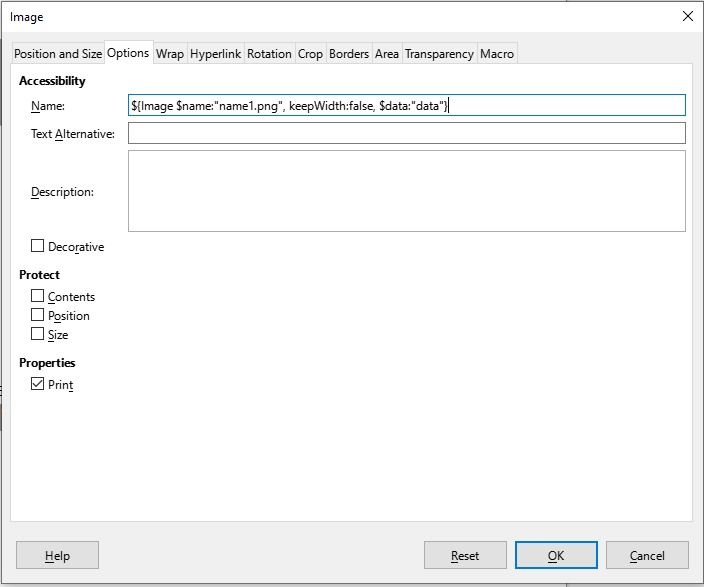
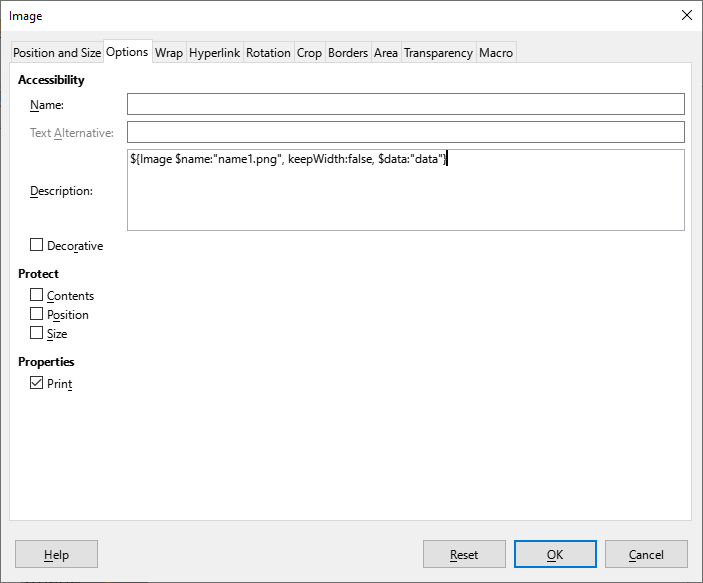
documentation. adjusted pom for missing profile

diff --git a/doc/web/guide.html b/doc/web/guide.html
@@ -63,6 +63,9 @@
         to generate the concrete document. This is a simplified overview that Underdocx does:
         <div class="imageContainer"><img src="images/overview.png" /></div>
 
+        Templates and data can be combined by a simple programming interface (API), but Underdocx can 
+        also be used as standalone command line tool (CLI).
+
         <h3>Open Source</h3>
         Underdocx is free and uses the
         <a href="https://github.com/winterrifier/underdocx/blob/main/LICENSE" target="_blank">MIT
@@ -284,7 +287,7 @@ engine.setModel(model);</code></pre>
         </table>
 
         <h2>API Introduction</h2>
-        <h3>Document Tyoes</h3>
+        <h3>Document Types</h3>
         <h4>OdtContainer</h4>
         <code-word>OdtContainer</code-word> instances represent an ODT document which can be modified by
         the engine or by user. This class provides multiple constructors to load
@@ -366,7 +369,9 @@ Resource resource = new Resouce.DataResource(byte[] data);
 // Creates a Resource instance based on an URI/URL
 Resource resource = new Resouce.UriResource(String uri);
 // Creates a Resource instance based on an URI/URL
-Resource resource = new Resouce.UriResource(URI uri);      </code></pre>
+Resource resource = new Resouce.UriResource(URI uri);
+// Creates a Resource instance based on a Base64 encoded String
+Resource resource = new Resouce.Base64Resource(String b64Data);      </code></pre>
 
         <h3>DataNode</h3>
 
@@ -878,7 +883,7 @@ Item1
         The example below uses the <code-word>${Push}</code-word>-Command to define
         a variable "data" that contains a list of person objects.
         The <code-word>${For}</code-word>-command uses this "data"-list to generate a table.
-        <code-word>tableRowRow:[1,6]</code-word> indicates that indices 1 to 6 are
+        <code-word>tableRow:[2,7]</code-word> indicates that indices 2 to 7 are
         used for the loops. Attribute <code-word>rowGroupSize:3</code-word> ensures each item receives 3
         rows of the repeatable rows.
         As you can see in the example, cells of multiple rows can be merged as long
@@ -886,6 +891,14 @@ Item1
 
         <div class="imageContainer"><img src="images/guide/tableLoopGroup.png" /></div>
         <div class="imageContainer"><img src="images/guide/tableLoopGroupResult.png" /></div>
+
+        When the table can not be placed between <code-word>${For}</code-word> and <code-word>${EndFor}</code-word>
+        (for example in Spreadsheets), you can use the attribute <code-word>tableName</code-word> to address the 
+        target table, or you can use <code-word>tableParent:true</code-word> to address the table in which the
+        command is located in. In both cases ensure the <code-word>${EndFor}</code-word> command directly follows 
+        the <code-word>${For}</code-word> command.
+
+        <div class="imageContainer"><img src="images/guide/ForTableName.png" /></div>
 
         <h4>Loop of ListItems</h4>
 
@@ -1031,6 +1044,14 @@ ${EndIf}</code></pre>
           </tr>
           <tr>
             <td>
+              base64
+            </td>
+            <td>
+              Attribute refers to a Base64 encoded String that contains the binary data of the document 
+            </td>
+          </tr>          
+          <tr>
+            <td>
               resource
             </td>
             <td>
@@ -1089,6 +1110,12 @@ ${EndIf}</code></pre>
             </td>
           </tr>
           <tr>
+            <td>base64</td>
+            <td>
+              Attribute refers to a base64 encoded String that contains the binary data of the document
+            </td>
+          </tr>          
+          <tr>
             <td>resource</td>
             <td>
               Attribute refers to a Resource-object that represents the document
@@ -1116,7 +1143,7 @@ ${EndIf}</code></pre>
         This command is a special placeholder, because it is not a plain textual command. Images placeholder are real
         images that are placed during template creation. An image becomes a placeholder image by adding
         the <code-word>${Image}</code-word> as image name. This textual part of the placeholder is located
-        in the "Name" field of the "Options"-tab of the "Properties..."-window of the image, which is selectable
+        in the "Description" field of the "Options"-tab of the "Properties..."-window of the image, which is selectable
         when you right-click the image.
 
         <div class="imageContainer"><img src="images/guide/ImageContextMenu.png" /></div>
@@ -1138,7 +1165,7 @@ ${EndIf}</code></pre>
           </tr>
           <tr>
             <td>uri</td>
-            <td>required if not data or resource has been used</td>
+            <td>required if not data, base64 or resource has been used</td>
             <td>
               Attribute refers to a String that contains an URI to the image to use
             </td>
@@ -1146,15 +1173,23 @@ ${EndIf}</code></pre>
 
           <tr>
             <td>data</td>
-            <td>required if not resource or uri has been used</td>
+            <td>required if not resource, base64 or uri has been used</td>
             <td>
               Attribute refers to a byte-Array that contains the binary data of the image
             </td>
           </tr>
 
           <tr>
+            <td>base64</td>
+            <td>required if not resource, data or uri has been used</td>
+            <td>
+              Attribute refers to a base64 encoded String that contains the binary data of the image
+            </td>
+          </tr>          
+
+          <tr>
             <td>resource</td>
-            <td>required if not data or uri has been used</td>
+            <td>required if not data, base64 or uri has been used</td>
             <td>
               Attribute refers to a Resource-object that represents the image
             </td>
@@ -1211,12 +1246,29 @@ ${EndIf}</code></pre>
           </tr>
           <tr>
             <td>inputFormat</td>
-            <td>expected date-format of the string addressed by attribute "value". Default format is "yyyy-MM-dd"</td>
+            <td>expected date-format of the string addressed by attribute "value". Default format is "yyyy-MM-dd"
+              See Javas DateTimeFormatter about details of the format syntax.
+            </td>
           </tr>
           <tr>
             <td>outputFormat</td>
-            <td>preferred date format to display after replacement. Default format is "yyyy-MM-dd" </td>
+            <td>preferred date format to display after replacement. Default format is "yyyy-MM-dd"
+              See Javas DateTimeFormatter about details of the format syntax.
+            </td>
           </tr>
+          <tr>
+            <td>lang</td>
+            <td>the language code that might influence the date formatting, e.g. "en-US" or "de-DE"</td>
+          </tr>          
+          <tr>
+            <td>templateCell</td>
+            <td>Use this attribute when the command is used within spreadsheet table cell (ODS).
+              This attribute contains the address (table name and coordinates)
+              to a cell that is formatted as expected. The template cell might be located in a different (temporary)
+              table. For example templateCell:"TmpTable.D1"
+            </td>
+          </tr>
+
         </table>
 
         Examples:
@@ -1238,6 +1290,134 @@ ${Date value:"24.12.2024" inputFormat:"dd.MM.yyyy"}
 
 // prints the date stored in variable "date" 
 ${Date $value:"date"}</code></pre>
+
+        <h3>${Time}-Command</h3>
+        This command similar to the <code-word>${Date}</code-word> command.
+        It uses the <code-word>value</code-word>-attribute to read
+        a time string from a variable, model property or from attribute directly. This
+        command can also be used to print the current time, in this case don't use the
+        <code-word>value</code-word>-attribute
+
+        <table>
+          <tr>
+            <th>
+              Attribute
+            </th>
+            <th>
+              Description
+            </th>
+          </tr>
+          <tr>
+            <td>value</td>
+            <td>time string. If not set, the current date will be used. Ensure the string also the parsable
+              data for date and time, even when you only want to print out the time </td>
+          </tr>
+          <tr>
+            <td>inputFormat</td>
+            <td>expected time-format of the string addressed by attribute "value". Default format is "yyyy-MM-dd HH:mm:ss"
+              See Javas DateTimeFormatter about details of the format syntax.
+              Ensure the string contains data for date and time, even when you only want to print out the time
+            </td>
+          </tr>
+          <tr>
+            <td>outputFormat</td>
+            <td>preferred time format to display after replacement. Default format is "yyyy-MM-dd HH:mm:ss"
+              See Javas DateTimeFormatter about details of the format syntax.
+            </td>
+          </tr>
+          <tr>
+            <td>lang</td>
+            <td>the language code that might influence the date formatting, e.g. "en-US" or "de-DE"</td>
+          </tr>               
+          <tr>
+            <td>templateCell</td>
+            <td>Use this attribute when the command is used within spreadsheet table cell (ODS).
+              This attribute contains the address (table name and coordinates)
+              to a cell that is formatted as expected. The template cell might be located in a different (temporary)
+              table. For example templateCell:"TmpTable.D1"
+            </td>
+          </tr>
+
+        </table>
+
+        Examples:
+
+        <pre class="padding"><code>// prints the current time, e.g. 2025-01-25 11:02:45
+${Time}
+
+// prints the current time, e.g. 11:02
+${Time outputFormat:"HH:mm"}
+
+// prints 2024-12-24 02:03:45            
+${Time value:"2024-12-24 02:03:45"}</code></pre>        
+
+        <h3>${Number}-Command</h3>
+        This command allows you to format number outputs with basic calculations. 
+
+        <table>
+          <tr>
+            <th>
+              Attribute
+            </th>
+            <th>
+              Description
+            </th>
+          </tr>
+          <tr>
+            <td>value</td>
+            <td>the number to display (model node, variable or attribute)</td>
+          </tr>
+          <tr>
+            <td>format</td>
+            <td>how to format the number. Default format is "#,###.##". Please read Java documentation of 
+              DecimalFormat for formatting syntax.
+            </td>
+          </tr>
+          <tr>
+            <td>lang</td>
+            <td>the language code that might influence the date formatting, e.g. "en-US" or "de-DE"</td>
+          </tr>                 
+          <tr>
+            <td>multiplier</td>
+            <td>multiplies the value by this factor, e.g. to calcualted percentage (0.2 => 20 %)</td>
+          </tr>
+          <tr>
+            <td>summand</td>
+            <td>adds this value to the base value, e.g. to calculate row number from index (0 => 1)</td>
+          </tr>
+          <tr>
+            <td>prefix</td>
+            <td>adds a string prefix</td>
+          </tr>
+          <tr>
+            <td>suffix</td>
+            <td>adds a string suffix, can be used for units, percentage or currency, e.g. 2.30 => 2.30 €</td>
+          </tr>
+          <tr>
+            <td>templateCell</td>
+            <td>Use this attribute when the command is used within spreadsheet table cell (ODS).
+              This attribute contains the address (table name and coordinates)
+              to a cell that is formatted as expected. The template cell might be located in a different (temporary)
+              table. For example templateCell:"TmpTable.D1"
+            </td>
+          </tr>
+          <tr>
+            <td>useModified</td>
+            <td>Use this attribute when the command is used within spreadsheet table cell (ODS).
+              If set to true, the modified value (by multiplier and summand) will be stored as new cell value,
+              Otherwise the origin value will be stored as cell value. For example use useModified:false and multiplier:100
+              for percentage calculation, use summand:1 and useModified:true to increase current index by 1
+            </td>
+
+          </tr>
+        </table>      
+        Examples:
+        <pre class="padding"><code>// prints: 2.00€
+${Number value:2, format:"#.00", suffix: "€"}
+
+// prints: 20%
+${Number value:0.2, multiplier: 100, suffix: "%"}</code></pre>             
+
 
         <h3>${Join}-Command</h3>
         Use this command to combine a list of strings and separate them with a separator. You can also limit the output
@@ -1350,6 +1530,34 @@ ${myDate of:"yyyy/MM/dd"}
 // prints: 12.12.2024
 ${myDate v:"2024-12-12"}</code></pre>
             
+        <h3>${Remove}</h3>
+        Removes the paragraph, page or table which contains this placeholder. In ODS, ODG and ODS documents
+        you could use this command to create a temporary area with commands that will be removed in the
+        final document. In this temporary area you can define ${Alias} commands or ${For} statements
+        addressing remote tables.
+
+        <table>
+          <tr>
+            <th>
+              Attribute
+            </th>
+            <th>
+              Description
+            </th>
+          </tr>
+          <tr>
+            <td>type</td>
+            <td>type of element that shall be removed, allowed values are page, table and paragraph </td>
+          </tr>
+          <tr>
+            <td>now</td>
+            <td>if true, removal will be executed immediately. All following placeholders within the
+              removed element will not be executed. Use now:false to let the template engine remove the element
+              later
+            </td>
+          </tr>         
+        </table>        
+
 
         <h3>${PageStyle}-Command</h3>
 
@@ -1481,6 +1689,27 @@ ${myDate v:"2024-12-12"}</code></pre>
         Ensure environment variable <code-word>LIBREOFFICE</code-word> contains the path of the libre office
         installation,
         for example "C:/Program Files/LibreOffice/program/soffice.exe" on windows.
+
+        <h2>Command Line Interface (CLI)</h2>
+
+        When Underdocx is feeded with the template document and all required data, it can
+        build the final document without use of the API. Unfortunately there is currenty no download
+        available for the CLI tool, therefore you need to build the CLI version manually
+
+        <h3>Build Underdocx as CLI Tool</h3>
+        You need a "git", "JDK" and "Maven" to build your CLI variant of underdocx. When these tools are installed
+        type these commands:
+
+        <pre class="padding"><code>git clone https://github.com/winterrifier/underdocx.git
+cd underdocx
+mvn clean install -P buildCli</code></pre>
+         After execution there will be a target folder that contains ""
+
+        <h3>Usage of CLI</h3>
+        <h3>Underdocx Json format</h3>
+
+
+
 
         <h2>Custom Extensions</h2>
 

diff --git a/src/main/java/org/underdocx/enginelayers/odtengine/commands/NumberCommandHandler.java b/src/main/java/org/underdocx/enginelayers/odtengine/commands/NumberCommandHandler.java
@@ -56,6 +56,7 @@ public class NumberCommandHandler<C extends DocContainer<D>, D> extends Abstract
     private static final PredefinedDataPicker<Boolean> useModifiedForCellPicker = new BooleanDataPicker().asPredefined("useModified");
 
     private static final PredefinedDataPicker<String> templateCellPicker = new StringConvertDataPicker().asPredefined("templateCell");
+    public static final String DEFAULT_FORMAT = "#,###.##";
 
     public NumberCommandHandler() {
         super(KEY);
@@ -136,7 +137,7 @@ public class NumberCommandHandler<C extends DocContainer<D>, D> extends Abstract
                     }
                 }
 
-                String formatToUse = format == null ? "#,###.##" : format;
+                String formatToUse = format == null ? DEFAULT_FORMAT : format;
                 Locale local = langCode == null ? Locale.getDefault() : Locale.forLanguageTag(langCode);
                 DecimalFormat df = new DecimalFormat(formatToUse, new DecimalFormatSymbols(local));
                 if (useModified) {
